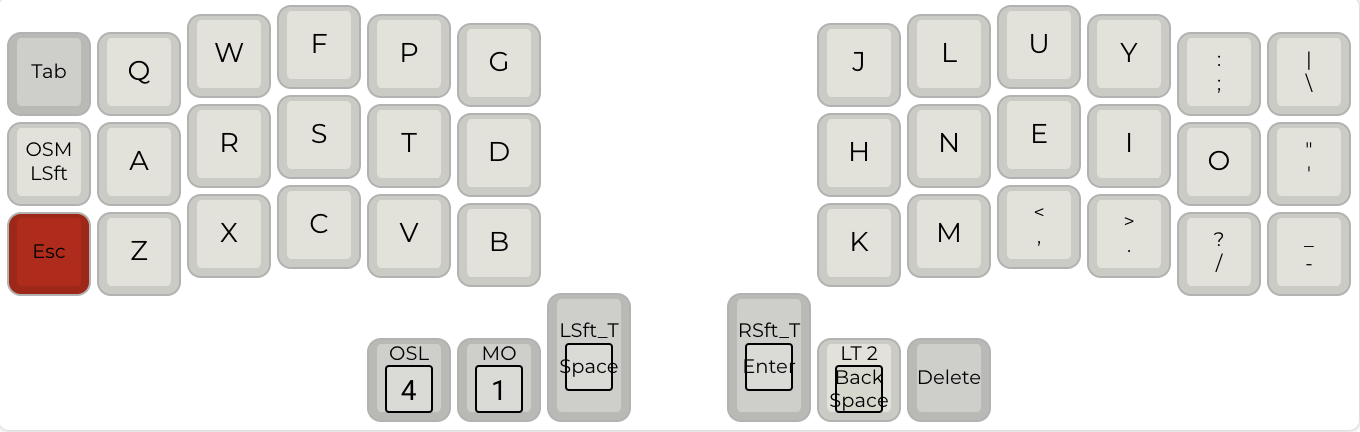
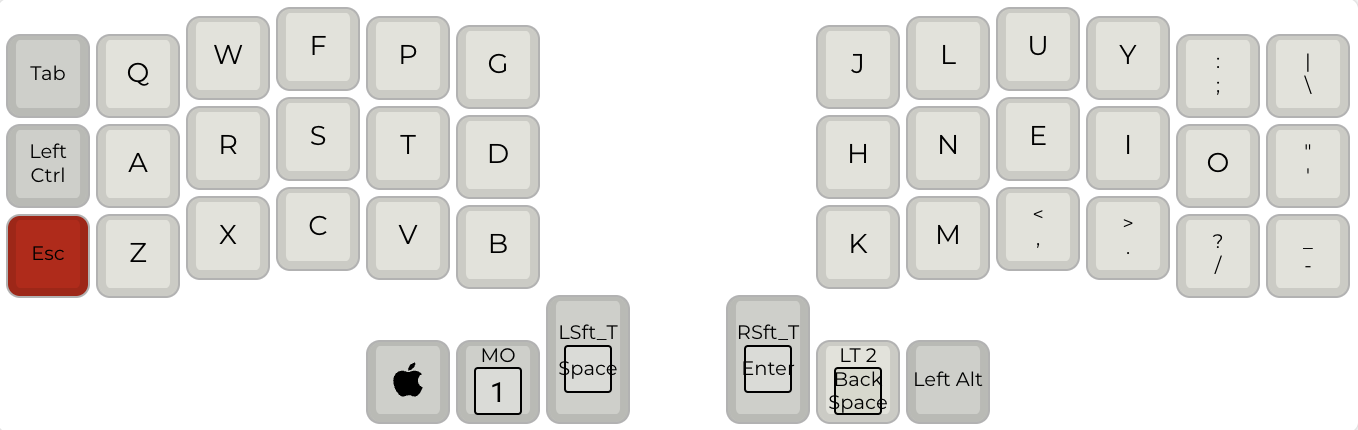
working on modifiers

diff --git a/keymap.c b/keymap.c
@@ -36,11 +36,11 @@ const uint16_t PROGMEM keymaps[][MATRIX_ROWS][MATRIX_COLS] = {
   //,-----------------------------------------------------.                    ,-----------------------------------------------------.
        KC_TAB,    KC_Q,    KC_W,    KC_F,    KC_P,    KC_G,                         KC_J,    KC_L,    KC_U,    KC_Y, KC_SCLN, KC_BSLS,
   //|--------+--------+--------+--------+--------+--------|                    |--------+--------+--------+--------+--------+--------|
-      DZ_OSS,    KC_A,    DZ_R,    DZ_S,    DZ_T,    KC_D,                         KC_H,    DZ_N,    DZ_E,    DZ_I,    KC_O, KC_QUOT,
+      KC_LCTL,    KC_A,    DZ_R,    DZ_S,    DZ_T,    KC_D,                         KC_H,    DZ_N,    DZ_E,    DZ_I,    KC_O, KC_QUOT,
   //|--------+--------+--------+--------+--------+--------|                    |--------+--------+--------+--------+--------+--------|
        KC_ESC,    KC_Z,    KC_X,    KC_C,    KC_V,    KC_B,                         KC_K,    KC_M, KC_COMM,  KC_DOT, KC_SLSH, KC_MINS,
   //|--------+--------+--------+--------+--------+--------+--------|  |--------+--------+--------+--------+--------+--------+--------|
-                                          OSL(_LAW), MO(1),  DZ_SPC,  KC_SFTENT, DZ_BSPC, KC_LALT
+                                          KC_LGUI,   MO(1),  DZ_SPC,  KC_SFTENT, DZ_BSPC, KC_LALT
                                       //`--------------------------'  `--------------------------'
 
   ),
